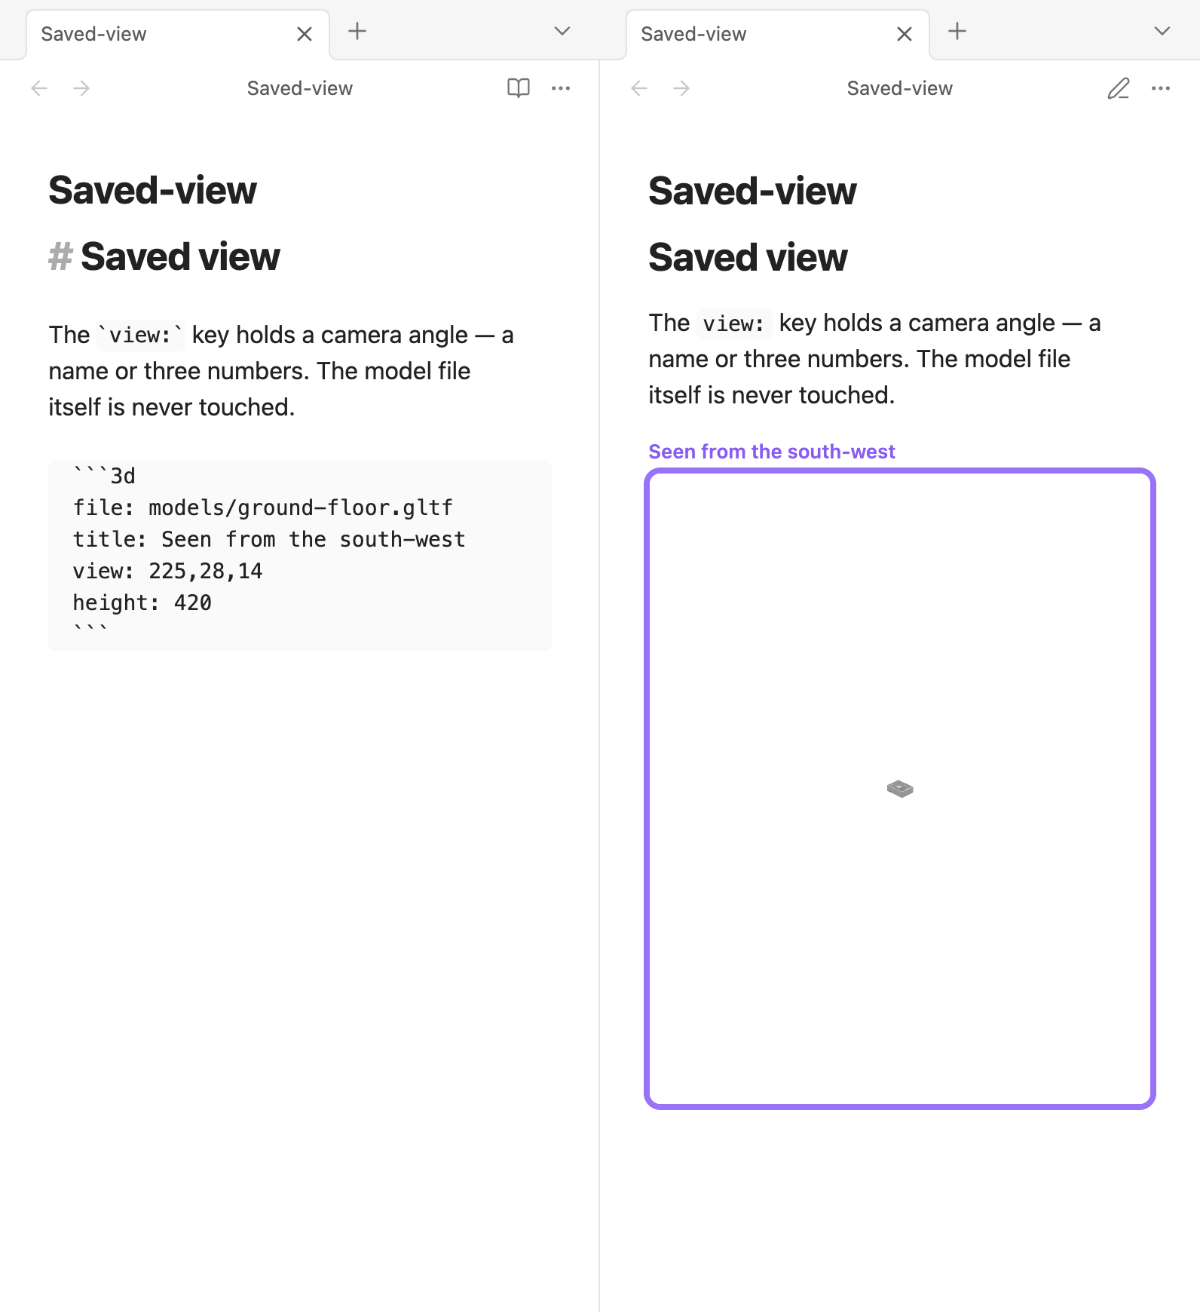
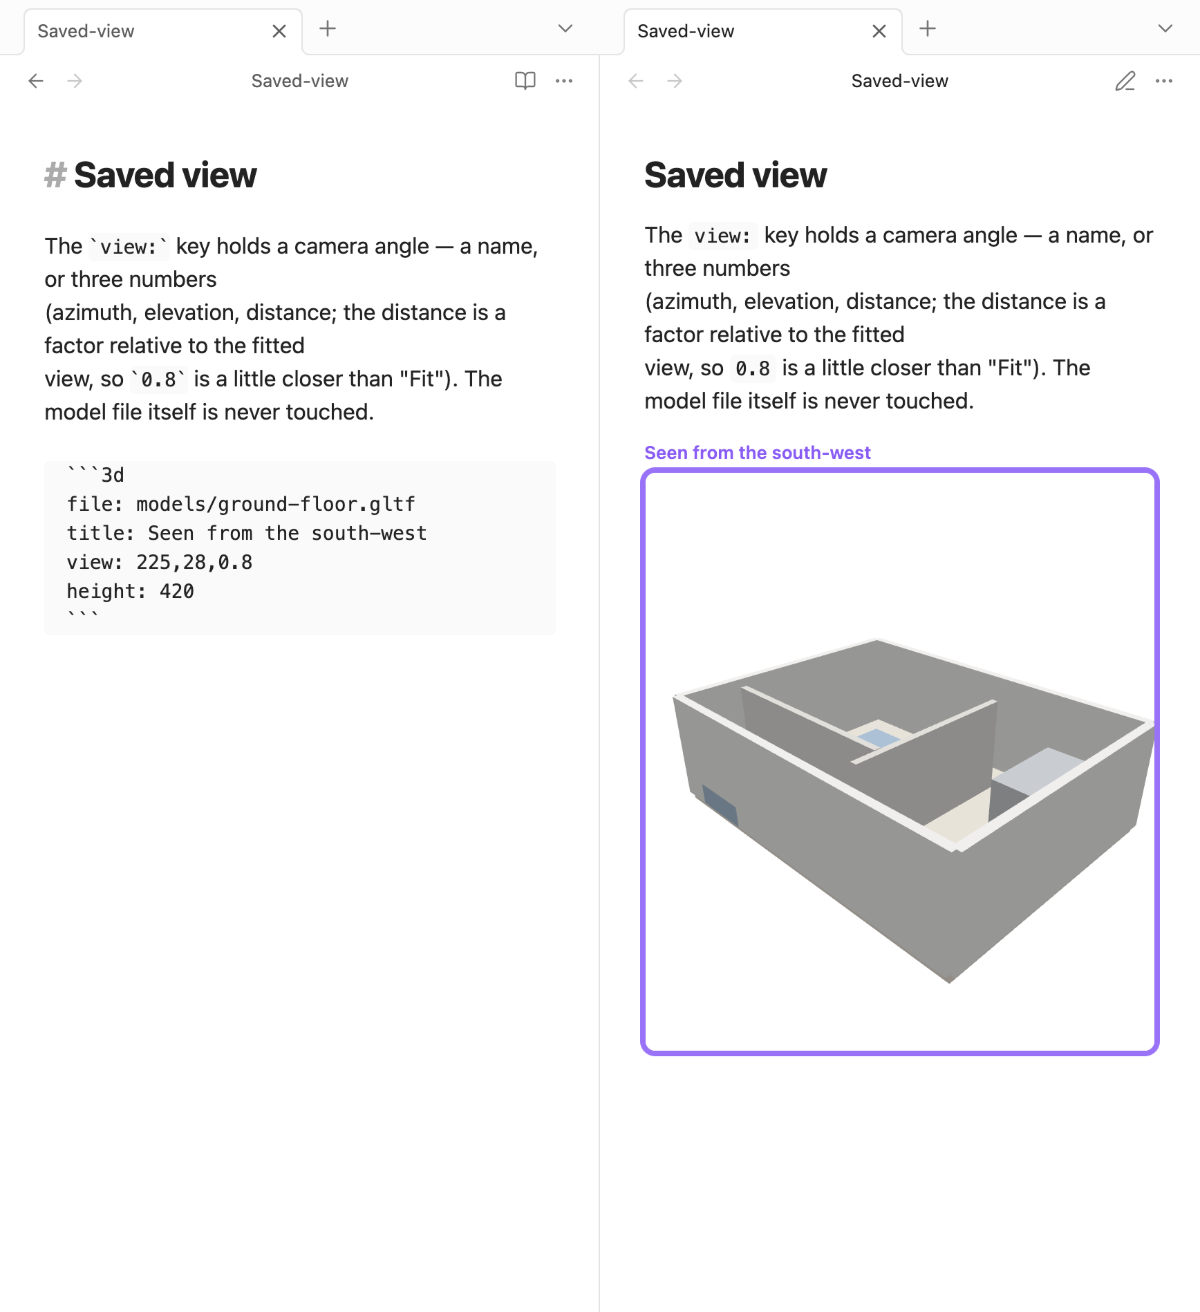
fix(shots): saved-view ohne doppelten Titel, code-and-render bleibt vorerst
saved-view.png neu aufgenommen: kein doppelter Titel mehr, und das Modell ist gross
statt briefmarkenklein (view: 225,28,0.8 statt der geratenen 14 — die Distanz ist ein
Faktor relativ zur Einpassung, keine Weltkoordinate).

code-and-render.png bleibt auf dem aelteren Stand MIT doppeltem Titel. Drei Versuche:
zwei scheiterten ganz, der dritte vertauschte die Blaetter — links das gerenderte
Modell statt des Quelltexts, rechts ein Standbild. Damit verfehlt die neuere Aufnahme
die Aussage des Bildes ("so schreibt man es / so sieht es aus"), waehrend die aeltere
sie trifft und nur kosmetisch schwaecher ist. Inhalt schlaegt Kosmetik.

Im Vertrag als bekannter Stand vermerkt, nicht stillschweigend hingenommen.

diff --git a/docs/images/README.md b/docs/images/README.md
@@ -101,7 +101,7 @@ Verbindlich ist der workspace-weite Bild-Standard in `_docs/readme/readme-spec.j
 | Datei | Klasse | Referenziert von | Muss zeigen |
 |---|---|---|---|
 | `hero.png` | hero | `README.md`, `README.de.md` (Kopf) | Die Notiz **Ground floor** in Live-Preview: der `3d`-Block gerendert, Titelzeile **Ground floor** über dem Viewport, das Modell formatfüllend und aus einem Winkel, der Räume erkennen lässt. Ruhiges Bild — keine Werkzeugleiste, kein Mauszeiger. |
-| `code-and-render.png` | feature | `README.md` (Usage) | Zwei Bereiche nebeneinander: links der **Quelltext** des `3d`-Blocks (`file:`, `title:`, `height:` lesbar), rechts dieselbe Notiz gerendert. Beantwortet „wie schreibt man das" und „was kommt dabei heraus" in einem Bild. |
+| `code-and-render.png` | feature | `README.md` (Usage) | Zwei Bereiche nebeneinander: links der **Quelltext** des `3d`-Blocks (`file:`, `title:`, `height:` lesbar), rechts dieselbe Notiz gerendert. Beantwortet „wie schreibt man das" und „was kommt dabei heraus" in einem Bild. ⚠ Der aktuelle Stand trägt noch den doppelten Titel (Dateiname + H1), weil das Split-Rezept das instabilste ist: von drei Versuchen nach `showInlineTitle: false` scheiterten zwei, der dritte vertauschte die Blätter (links gerendert statt Quelltext). Inhalt schlägt Kosmetik — die ältere Aufnahme trifft die Aussage, die neuere nicht. |
 | `hover-toolbar.png` | feature | `README.md` (Saving a camera angle) | Die Werkzeugleiste, die beim Überfahren des Modells erscheint, mit **Fit**, **Save view**, **Clear view** und dem Stift **Edit model**. Eng auf das Modell und die Leiste beschnitten. |
 | `sidebar-controls.png` | feature | `README.md` (Saving a camera angle) | Die Sidebar (Kommando **Open 3D view controls**) neben einem aktiven Modell: Kamerawerte und dieselben Aktionen als Schaltflächen. Kein leerer Zustand — **„Click a 3D model to control it here."** darf *nicht* zu sehen sein. |
 | `saved-view.png` | feature | `README.md` (Saving a camera angle) | Notiz **Saved view**: die Zeile `view: 225,28,14` im Block **und** das entsprechend gedrehte Modell im selben Bild — die Aussage ist, dass der Blickwinkel in der Notiz steht. |
